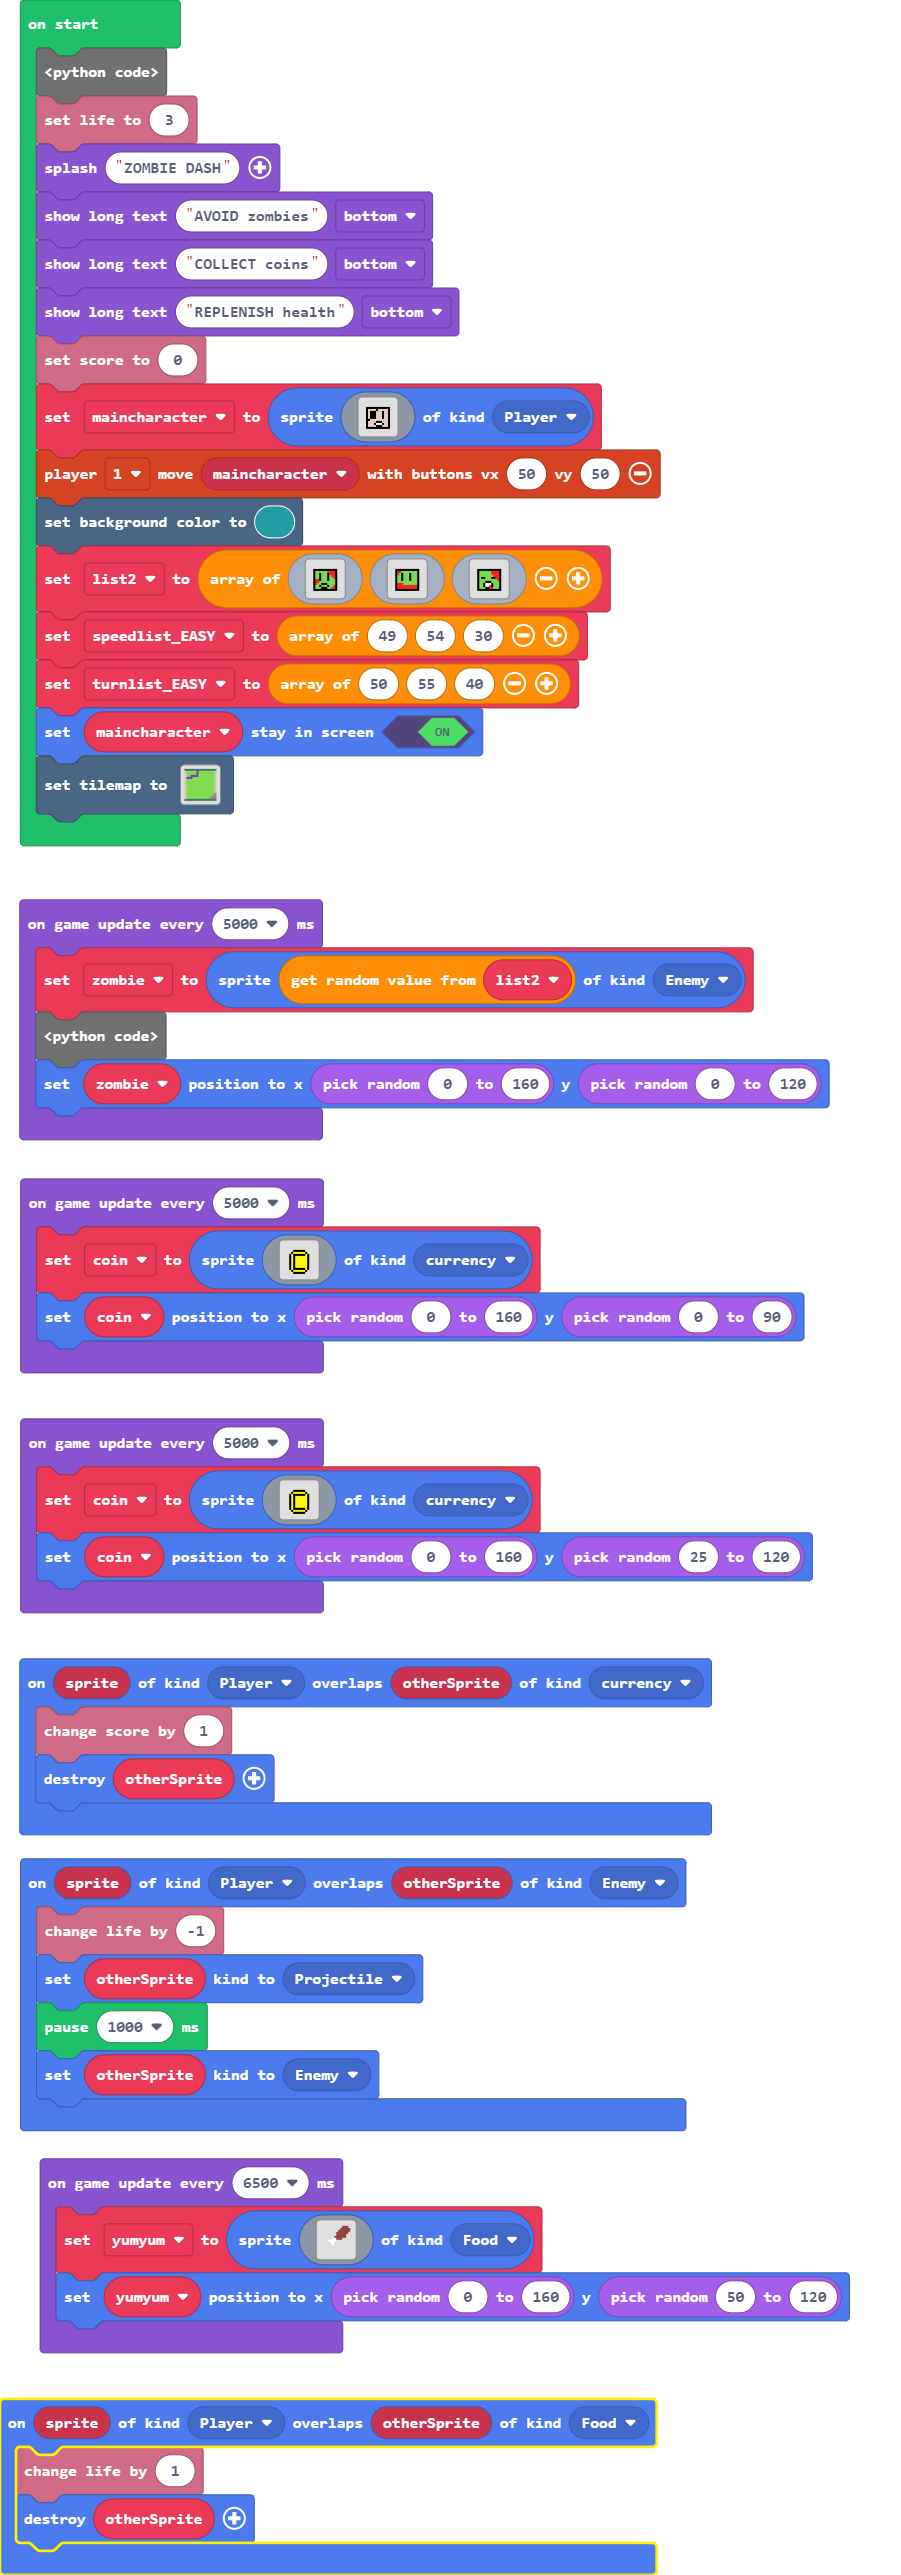
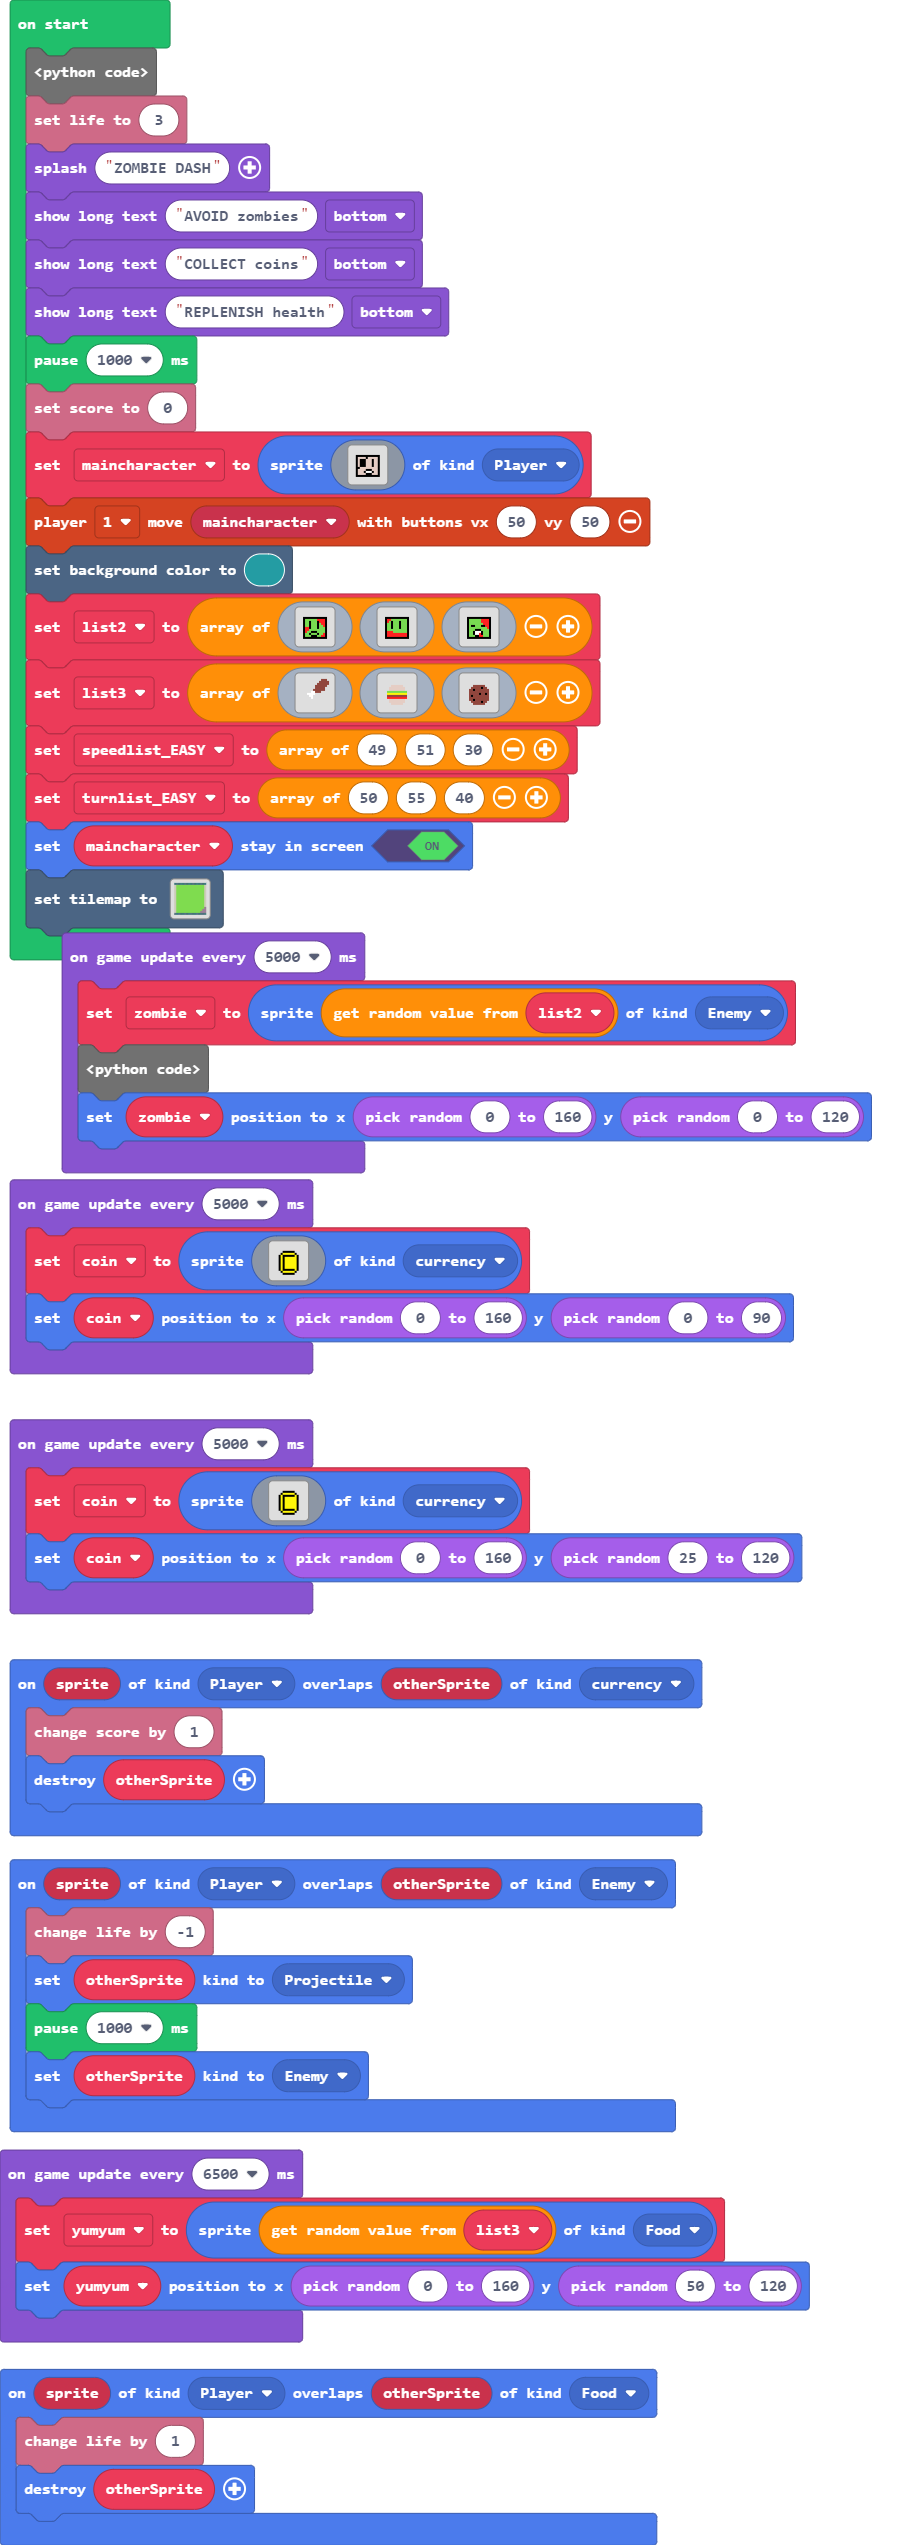
Update main.blocks, main.ts, tilemap.g.jres, tilemap.g.ts

diff --git a/tilemap.g.ts b/tilemap.g.ts
@@ -24,25 +24,6 @@ namespace myTiles {
 . . . . . . . . . . . . . . . . 
 . . . . . . . . . . . . . . . . 
 `, [myTiles.transparency16], TileScale.Sixteen);
-            case "level2":
[1 lines of base64/hex data omitted]
-. . . . . . . . . . . . . . . . 
-. . . . . . . . . . . . . . . . 
-. . . . . . . . . . . . . . . . 
-. . . . . . . . . . . . . . . . 
-. . . . . . . . . . . . . . . . 
-. . . . . . . . . . . . . . . . 
-. . . . . . . . . . . . . . . . 
-. . . . . . . . . . . . . . . . 
-. . . . . . . . . . . . . . . . 
-. . . . . . . . . . . . . . . . 
-. . . . . . . . . . . . . . . . 
-. . . . . . . . . . . . . . . . 
-. . . . . . . . . . . . . . . . 
-. . . . . . . . . . . . . . . . 
-. . . . . . . . . . . . . . . . 
-. . . . . . . . . . . . . . . . 
-`, [myTiles.transparency16,sprites.builtin.crowd3,sprites.castle.tilePath6,sprites.castle.tileGrass1,sprites.castle.tilePath4,sprites.swamp.swampTile7,sprites.swamp.swampTile9,sprites.swamp.swampTile13,sprites.castle.rock1,sprites.castle.rock2,sprites.builtin.crowd0,sprites.builtin.crowd1,sprites.builtin.crowd2,sprites.builtin.crowd4,sprites.builtin.crowd5,sprites.builtin.crowd6], TileScale.Sixteen);
             case "level3":
             case "level3":return tiles.createTilemap(hex`1000100000000000000000000000000000000000000000000000000000000000000000000000000000000000000000000000000000000000000000000000000000000000000000000000000000000000000000000000000000000000000000000000000000000000000000000000000000000000000000000000000000000000000000000000000000000000000000000000000000000000000000000000000000000000000000000000000000000000000000000000000000000000000000000000000000000000000000000000000000000000000000000000000000000000000000000000000000000000000000000000000000000000000000000000000000000000`, img`
 . . . . . . . . . . . . . . . . 
@@ -62,6 +43,25 @@ namespace myTiles {
 . . . . . . . . . . . . . . . . 
 . . . . . . . . . . . . . . . . 
 `, [myTiles.transparency16], TileScale.Sixteen);
+            case "level2":
[1 lines of base64/hex data omitted]
+. . . . . . . . . . . . . . . . 
+. . . . . . . . . . . . . . . . 
+. . . . . . . . . . . . . . . . 
+. . . . . . . . . . . . . . . . 
+. . . . . . . . . . . . . . . . 
+. . . . . . . . . . . . . . . . 
+. . . . . . . . . . . . . . . . 
+. . . . . . . . . . . . . . . . 
+. . . . . . . . . . . . . . . . 
+. . . . . . . . . . . . . . . . 
+. . . . . . . . . . . . . . . . 
+. . . . . . . . . . . . . . . . 
+. . . . . . . . . . . . . . . . 
+. . . . . . . . . . . . . . . . 
+. . . . . . . . . . . . . . . . 
+. . . . . . . . . . . . . . . . 
+`, [myTiles.transparency16,sprites.builtin.crowd3,sprites.castle.tilePath6,sprites.castle.tileGrass1,sprites.castle.tilePath4,sprites.castle.rock1,sprites.castle.rock2,sprites.builtin.crowd0,sprites.builtin.crowd1,sprites.builtin.crowd2,sprites.builtin.crowd4,sprites.builtin.crowd5,sprites.builtin.crowd6], TileScale.Sixteen);
         }
         return null;
     })

diff --git a/main.ts b/main.ts
@@ -23,6 +23,7 @@ game.splash("ZOMBIE DASH")
 game.showLongText("AVOID zombies", DialogLayout.Bottom)
 game.showLongText("COLLECT coins", DialogLayout.Bottom)
 game.showLongText("REPLENISH health", DialogLayout.Bottom)
+pause(1000)
 info.setScore(0)
 let maincharacter = sprites.create(img`
     . . . . . . . . . . . . . . . . 
@@ -96,7 +97,59 @@ let list2 = [img`
     . . . . . . . . . . . . . . . . 
     . . . . . . . . . . . . . . . . 
     `]
-let speedlist_EASY = [49, 54, 30]
+let list3 = [img`
+    . . . . . . . . . . . . . . . . 
+    . . . . . . . . . . . e e e . . 
+    . . . . . . . . . . e e e e e . 
+    . . . . . . . . . e e e e e e . 
+    . . . . . . . . e e e e e e . . 
+    . . . . . . . . e e e e e . . . 
+    . . . . . . . e e e e e e . . . 
+    . . . . . . 1 1 e e e . . . . . 
+    . . . . 1 1 1 1 . . . . . . . . 
+    . . . . . 1 1 . . . . . . . . . 
+    . . . . . . 1 . . . . . . . . . 
+    . . . . . . . . . . . . . . . . 
+    . . . . . . . . . . . . . . . . 
+    . . . . . . . . . . . . . . . . 
+    . . . . . . . . . . . . . . . . 
+    . . . . . . . . . . . . . . . . 
+    `, img`
+    . . . . . . . . . . . . . . . . 
+    . . . . . . . . . . . . . . . . 
+    . . . . . . . . . . . . . . . . 
+    . . . . . . . . . . . . . . . . 
+    . . . . . d d d d d d . . . . . 
+    . . . . d d d d d d d d . . . . 
+    . . . . d d d d d d d d . . . . 
+    . . . 7 7 7 7 7 7 7 7 7 7 . . . 
+    . . . 5 5 5 5 5 5 5 5 5 5 . . . 
+    . . . e e e e e e e e e e . . . 
+    . . . 2 2 2 2 2 2 2 2 2 2 . . . 
+    . . . . d d d d d d d d . . . . 
+    . . . . d d d d d d d d . . . . 
+    . . . . . d d d d d d . . . . . 
+    . . . . . . . . . . . . . . . . 
+    . . . . . . . . . . . . . . . . 
+    `, img`
+    . . . . . . . . . . . . . . . . 
+    . . . . . . . . . . . . . . . . 
+    . . . . . . . . . . . . . . . . 
+    . . . . . . . . . . . . . . . . 
+    . . . . . e e e e e e . . . . . 
+    . . . . e e e e e f e e . . . . 
+    . . . e e f e e e e e e e . . . 
+    . . . e e e e e e e e e e . . . 
+    . . . e e e e e f e e f e . . . 
+    . . . e f e e e e e e e e . . . 
+    . . . e e e e e e e e e e . . . 
+    . . . e e f e e e e e e e . . . 
+    . . . . e e e e e f e e . . . . 
+    . . . . . e e e e e e . . . . . 
+    . . . . . . . . . . . . . . . . 
+    . . . . . . . . . . . . . . . . 
+    `]
+let speedlist_EASY = [49, 51, 30]
 let turnlist_EASY = [50, 55, 40]
 maincharacter.setStayInScreen(true)
 tiles.setTilemap(tilemap`level2`)
@@ -148,23 +201,6 @@ game.onUpdateInterval(5000, function () {
     coin.setPosition(randint(0, 160), randint(25, 120))
 })
 game.onUpdateInterval(6500, function () {
-    yumyum = sprites.create(img`
-        . . . . . . . . . . . . . . . . 
-        . . . . . . . . . . . e e e . . 
-        . . . . . . . . . . e e e e e . 
-        . . . . . . . . . e e e e e e . 
-        . . . . . . . . e e e e e e . . 
-        . . . . . . . . e e e e e . . . 
-        . . . . . . . e e e e e e . . . 
-        . . . . . . 1 1 e e e . . . . . 
-        . . . . 1 1 1 1 . . . . . . . . 
-        . . . . . 1 1 . . . . . . . . . 
-        . . . . . . 1 . . . . . . . . . 
-        . . . . . . . . . . . . . . . . 
-        . . . . . . . . . . . . . . . . 
-        . . . . . . . . . . . . . . . . 
-        . . . . . . . . . . . . . . . . 
-        . . . . . . . . . . . . . . . . 
-        `, SpriteKind.Food)
+    yumyum = sprites.create(list3._pickRandom(), SpriteKind.Food)
     yumyum.setPosition(randint(0, 160), randint(50, 120))
 })
